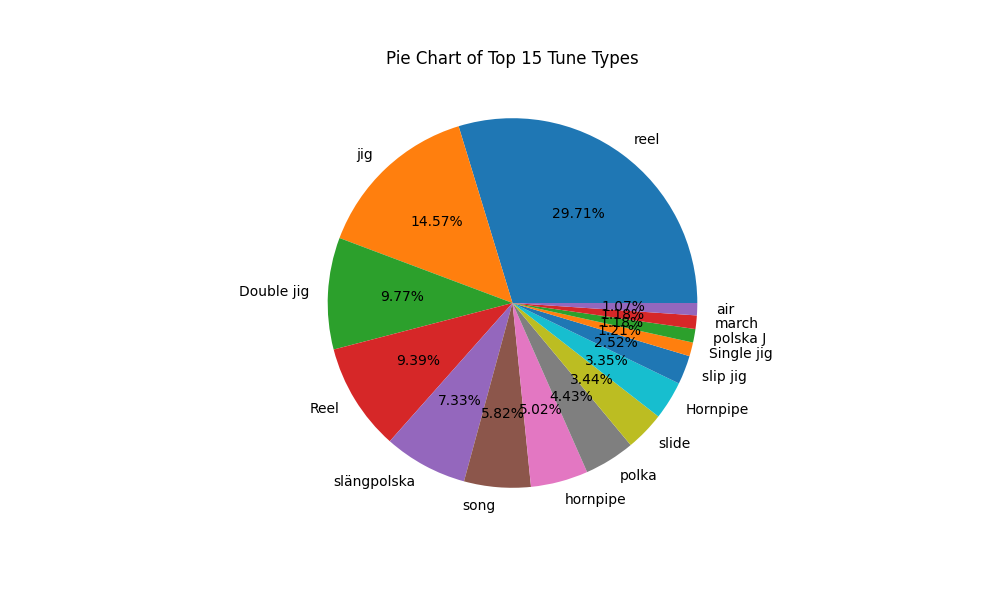
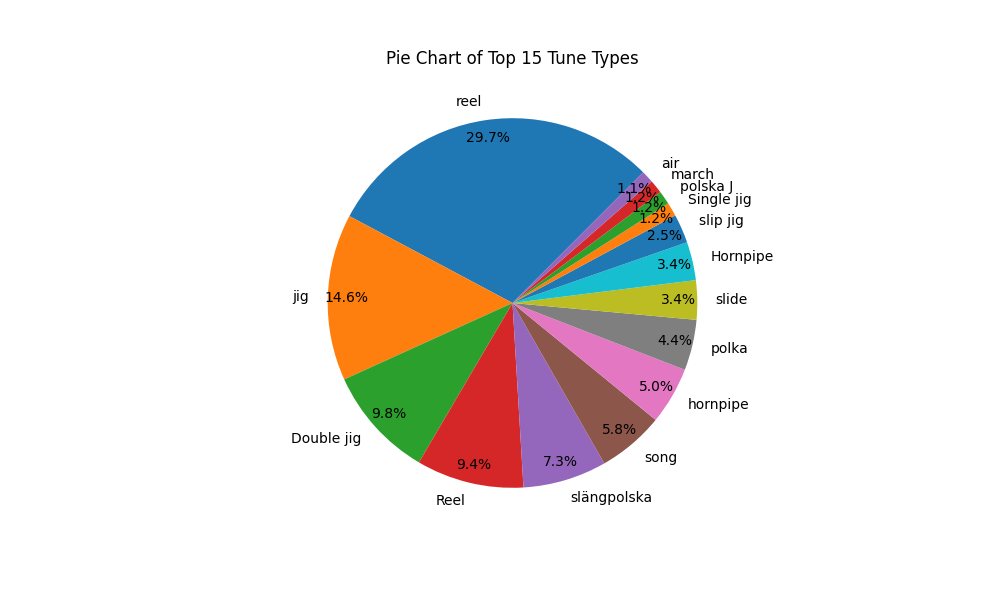
Changes to be committed: improved piechart format

diff --git a/Assignment_Code.py b/Assignment_Code.py
@@ -405,7 +405,7 @@ def piechart_tune_type():
 
     #displays counts in a pie chart to 2 decimal place. Saves the chart as a .png
     plt.figure(figsize=(10,6))
-    plt.pie(type_counts.values, labels=type_counts.index, autopct='%1.2f%%')
+    plt.pie(type_counts.values, labels=type_counts.index, autopct='%1.1f%%', startangle=45, pctdistance=0.9)
     plt.title('Pie Chart of Top 15 Tune Types')
     plt.savefig("piechart.png")
     plt.show()
